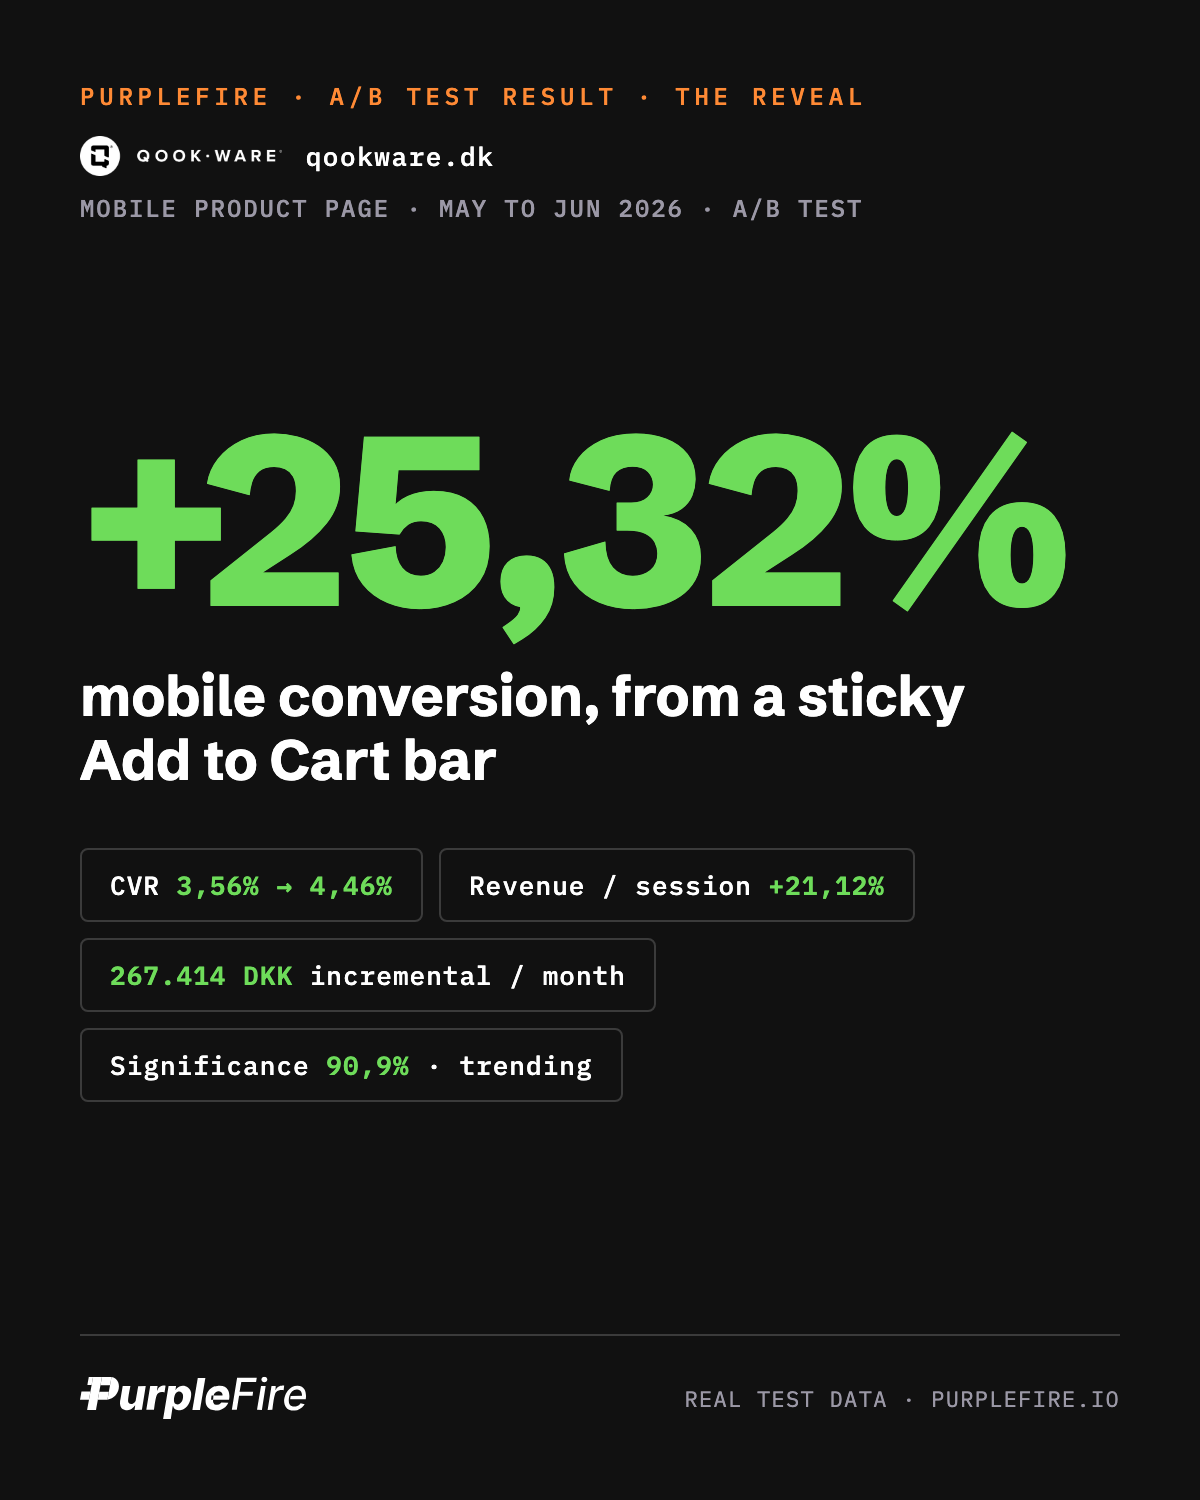
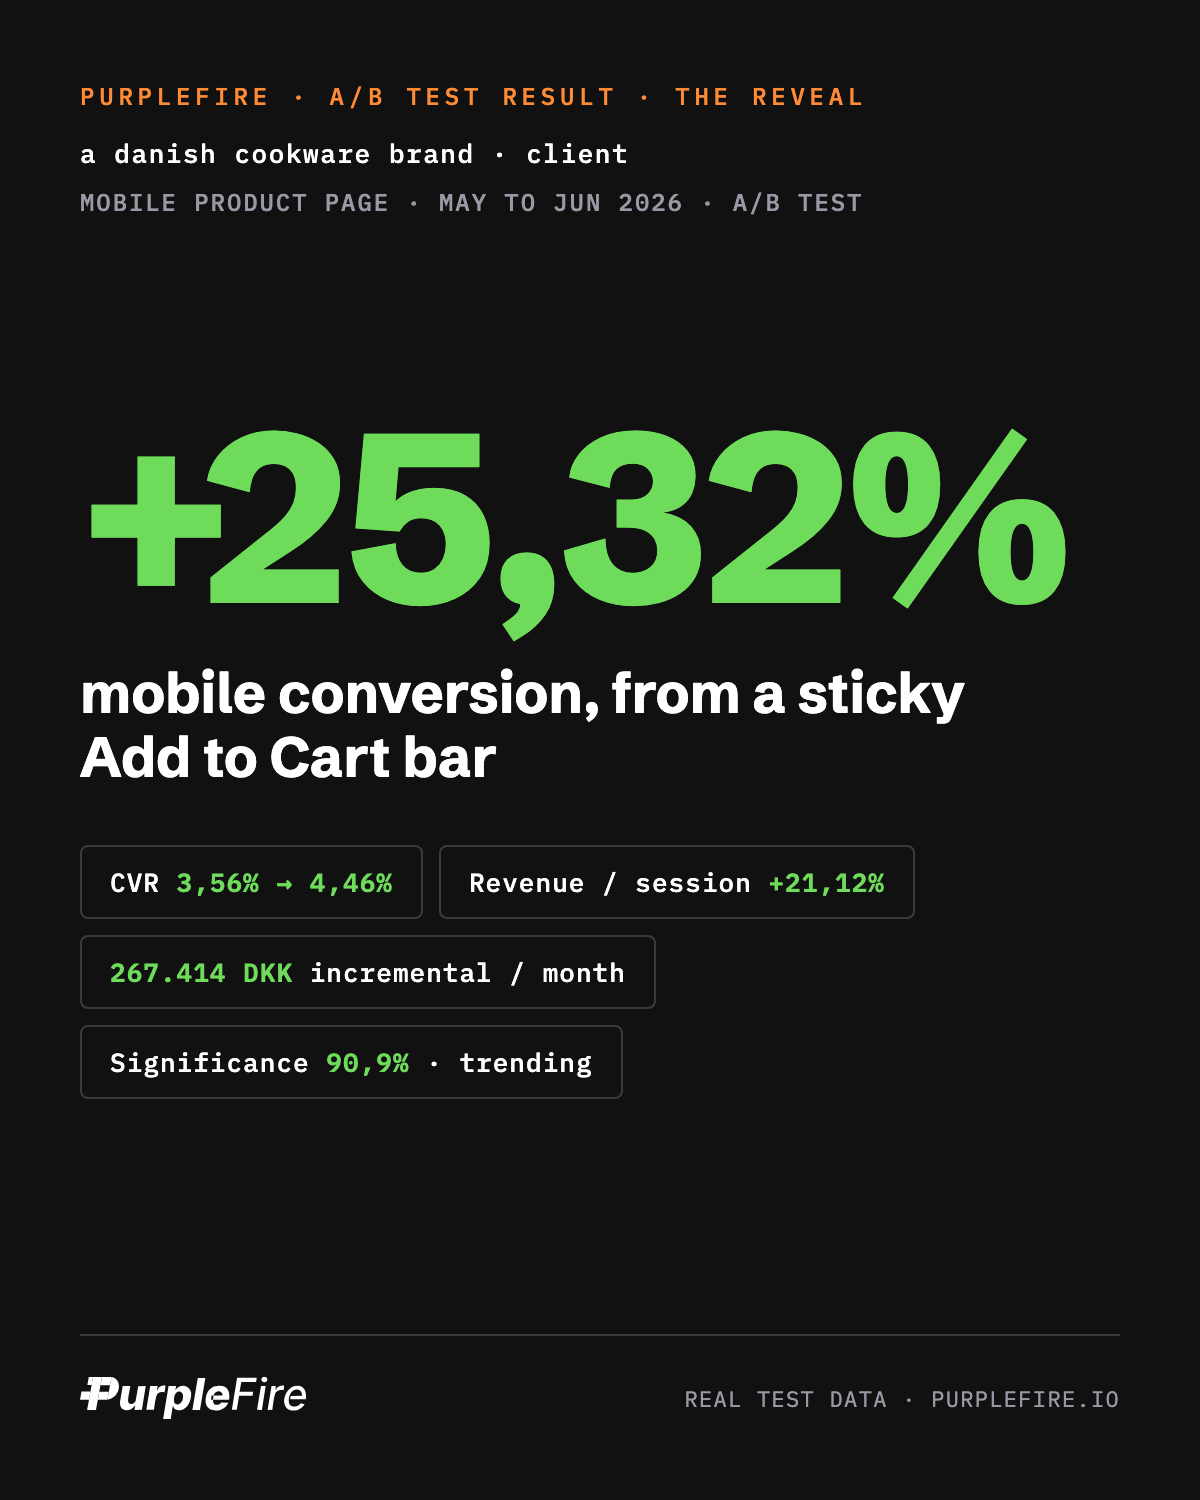
PurpleFire: anonymize current clients in all images and copy; replace excluded vault test in week 6

diff --git a/purplefire-linkedin-plan/index.html b/purplefire-linkedin-plan/index.html
@@ -403,7 +403,7 @@
     </h2>
     <ol>
       <li><strong>Client naming.</strong> Posts name PH Import and Qookware. Get a one line OK from each founder. If either declines, swap to "a Danish cleaning products brand" / "a Danish cookware brand". The numbers stay identical.</li>
-      <li><strong>Numbers discipline.</strong> Only PH Import T05 (+19.13% CVR) is at 99.7% statistical significance. Everything else is 78 to 91% ("trending"). The copy states measured lifts from test windows without claiming statistical proof. Do not round the language up when posting or replying to comments.</li>
+      <li><strong>Numbers discipline.</strong> Only one test (T05 on the cleaning brand, +19.13% CVR) is at 99.7% statistical significance. Everything else is 78 to 91% ("trending"). The copy states measured lifts from test windows without claiming statistical proof. Do not round the language up when posting or replying to comments.</li>
     </ol>
   </div>
 
@@ -411,7 +411,7 @@
   <p class="section-sub">Tick items off as they land. Progress saves in your browser.</p>
   <div class="prep" id="prep">
     <label class="prep-row"><input type="checkbox" class="post-check" data-key="prep1"><span class="date">Jul 15</span><span>Approve all post copy, make the two decisions above</span><span class="who daniel">Daniel</span></label>
-    <label class="prep-row"><input type="checkbox" class="post-check" data-key="prep3"><span class="date">Jul 16</span><span>Ask PH Import + Qookware founders for naming OK and referral intros</span><span class="who daniel">Daniel</span></label>
+    <label class="prep-row"><input type="checkbox" class="post-check" data-key="prep3"><span class="date">Jul 16</span><span>Ask both client founders for referral intros (posts stay anonymous)</span><span class="who daniel">Daniel</span></label>
     <label class="prep-row"><input type="checkbox" class="post-check" data-key="prep4"><span class="date">Jul 17</span><span>Build "Vault Top 20" lead magnet PDF (from the vault index, real client names)</span><span class="who bhaskar">Bhaskar</span></label>
     <label class="prep-row"><input type="checkbox" class="post-check" data-key="prep5"><span class="date">Jul 17</span><span>Produce 5 result card images from deck crops (dark card, big green number, before/after phones)</span><span class="who bhaskar">Bhaskar</span></label>
     <label class="prep-row"><input type="checkbox" class="post-check" data-key="prep7"><span class="date">Jul 19</span><span>Load everything into the scheduler or hand Daniel a paste ready folder</span><span class="who bhaskar">Bhaskar</span></label>
@@ -453,7 +453,7 @@
           <div class="li-author"><div class="li-avatar">DC</div><div><div class="nm">Daniel Chabert</div><div class="rl">Founder, PurpleFire</div></div></div>
           <pre class="post-copy">The highest ROI pixels on a product page sit directly under the Add to Cart button.
 
-We proved it in May on PH Import, a Danish cleaning products store.
+We proved it in May on one of our clients: a Danish store selling cleaning products.
 
 Their PDP had a "recommended products" block above the buy button. Data showed it earned 1% of clicks. The Add to Cart button next to it: 7%.
 
@@ -599,7 +599,7 @@ Where does your drop off happen? That's where your guarantee belongs.</pre>
           <div class="li-author"><div class="li-avatar">DC</div><div><div class="nm">Daniel Chabert</div><div class="rl">Founder, PurpleFire</div></div></div>
           <pre class="post-copy">87% of this store's traffic is mobile. Its product page was designed on a 27 inch monitor.
 
-Qookware sells premium cookware in Denmark. Great products, strong reviews, 4.8 stars.
+This client sells premium cookware in Denmark. Great products, strong reviews, 4.8 stars.
 
 But mobile converted at 4.9% while desktop did 7.2%. And the session recordings showed why: average mobile dwell time on the PDP was 74 seconds, and shoppers scrolled past the Add to Cart button early, then never scrolled back.
 
@@ -816,7 +816,7 @@ Comment VAULT and I'll DM it to you. (Connections only, so we can actually messa
           <div class="li-author"><div class="li-avatar">DC</div><div><div class="nm">Daniel Chabert</div><div class="rl">Founder, PurpleFire</div></div></div>
           <pre class="post-copy">We changed the ORDER of five buttons. It was worth 623,413 DKK per month.
 
-PH Import sells cleaning products Danes buy in bulk. Their product pages offered quantity bundles: 1, 2, 3, 6, or 12 units, laid out in a two row grid, ascending, cheapest first.
+Our client sells cleaning products Danes buy in bulk. Their product pages offered quantity bundles: 1, 2, 3, 6, or 12 units, laid out in a two row grid, ascending, cheapest first.
 
 Two problems with that:
 
@@ -854,7 +854,7 @@ What's the first price a visitor sees on your bestseller?</pre>
           <div class="li-author"><div class="li-avatar">DC</div><div><div class="nm">Daniel Chabert</div><div class="rl">Founder, PurpleFire</div></div></div>
           <pre class="post-copy">The best test we ran this quarter added nothing. It removed one button.
 
-Qookware's product page had an "Add to Wish List" button sitting directly below the price, above the Add to Cart. Prime real estate, primary visual hierarchy.
+The cookware store's product page had an "Add to Wish List" button sitting directly below the price, above the Add to Cart. Prime real estate, primary visual hierarchy.
 
 Think about what that placement says: before you decide to buy, here's an easier, lower commitment way out.
 
@@ -1024,7 +1024,7 @@ Reveal tomorrow with the full numbers.</pre>
 
 That's the test result most people don't believe until they see the mechanism.
 
-PH Import had 4,000+ reviews on their cleaning products. Every single one displayed as text. But shoppers buying cleaning products want to SEE the result: the limescale gone, the mold removed, the sofa saved.
+The store (a cleaning products client of ours) had 4,000+ reviews. Every single one displayed as text. But shoppers buying cleaning products want to SEE the result: the limescale gone, the mold removed, the sofa saved.
 
 The test: replace the text review carousel with an image first version. Customer photo leads, then stars, then the review text.
 
@@ -1096,12 +1096,12 @@ Look at your bestseller right now: what does a visitor get if they change nothin
           <div class="li-author"><div class="li-avatar">DC</div><div><div class="nm">Daniel Chabert</div><div class="rl">Founder, PurpleFire</div></div></div>
           <pre class="post-copy">Their homepage opened with a giant photo of the founder pointing at you. Charming. Also expensive.
 
-PH Import's original mobile homepage: hero image, then "Most popular" products. No headline. No value proposition. No reason to stay unless you already knew the brand.
+The client's original mobile homepage: hero image, then "Most popular" products. No headline. No value proposition. No reason to stay unless you already knew the brand.
 
 New visitors got charisma when they needed clarity.
 
 The test: keep the founder, add the missing 3 seconds of information above the fold:
-• Headline: what this store solves ("Professionel rengøring uden besvær")
+• Headline: what this store solves, in one plain sentence
 • One line of proof: Denmark's best selling cleaning products, direct from the importer
 • Two CTAs: shop bestsellers, see bundles
 • 4,094 reviews + 100,000 customers, right under the buttons
@@ -1602,7 +1602,7 @@ Enjoy your Sunday. The webshops can wait until Monday.</pre>
   </div>
 
   <div class="week" data-week="6">
-    <div class="week-head"><span class="wk">Week 6</span><h3>The redesign that lost</h3><span class="dates">Aug 24 to 30</span></div>
+    <div class="week-head"><span class="wk">Week 6</span><h3>The catalog cut</h3><span class="dates">Aug 24 to 30</span></div>
 
     <article class="post" data-type="results">
       <div class="post-head">
@@ -1621,30 +1621,31 @@ Enjoy your Sunday. The webshops can wait until Monday.</pre>
       <div class="post-head">
         <input type="checkbox" class="post-check" data-key="pg6" onclick="event.stopPropagation()">
         <div class="post-when"><div class="d">Tue</div><div class="dt">Aug 25</div></div>
-        <div class="post-title"><div class="id">Post G6 · static image · reaction vote</div><h4>Vote: the redesign or the old page?</h4></div>
+        <div class="post-title"><div class="id">Post G6 · static image · reaction vote</div><h4>Vote: big catalog or small catalog?</h4></div>
         <span class="badge guess">Guess</span>
         <svg class="chev" viewBox="0 0 24 24" fill="none" stroke="currentColor" stroke-width="2.4" stroke-linecap="round"><path d="m6 9 6 6 6-6"/></svg>
       </div>
       <div class="post-body">
-        <dl class="brief"><dt>Source</dt><dd>Vault test, Her Fantasy Box: their new PDP template vs the old one it replaced. The counterintuitive one.</dd><dt>Visual</dt><dd>Two PDP layouts labeled A (old) and B (redesign). Do not reveal which is old.</dd><dt>Reveal</dt><dd>Post 23 on Thursday.</dd></dl>
+        <dl class="brief"><dt>Source</dt><dd>Vault test, The Secret Stories: separate color listings vs merged products with a color picker.</dd><dt>Visual</dt><dd>Two collection layouts labeled A (separate listings) and B (merged products). Do not show the result.</dd><dt>Reveal</dt><dd>Post 23 on Thursday.</dd></dl>
         <div class="copy-label"><span>Post copy</span><button class="copy-btn">Copy</button></div>
         <div class="li-preview">
           <div class="li-author"><div class="li-avatar">DC</div><div><div class="nm">Daniel Chabert</div><div class="rl">Founder, PurpleFire</div></div></div>
-          <pre class="post-copy">Her Fantasy Box spent months redesigning their product page. Cleaner, more modern, more on trend.
+          <pre class="post-copy">We deleted half of a store's catalog. On purpose.
 
-Then we did something uncomfortable: we A/B tested the shiny new template against the old one they'd just replaced.
+The Secret Stories sold the same kits in several colors, and every color was listed as its own product. The catalog looked big. Choosing felt like work.
 
-Version A: the old page.
-Version B: the redesign.
+The test: merge kits that differ only by color into ONE product with a color picker. Overnight, the catalog looked half the size.
 
-One of them converts meaningfully better. Which one?
+A: every color its own product (the big catalog)
+B: one product per kit, colors inside (the small catalog)
 
-Like = A, the old page wins
-Love = B, the redesign wins
+Vote:
+Like = A wins
+Love = B wins
 
-Before you vote: "newer" and "better looking" are not the same variable as "converts better." That's all I'll say.
+And in the comments: does a bigger looking catalog sell more, or less?
 
-Comment your reasoning. Reveal Thursday, and this one has a lesson that costs some brands hundreds of thousands.</pre>
+Answer Thursday, with numbers that settle it.</pre>
         </div>
       </div>
     </article>
@@ -1679,26 +1680,26 @@ The takeaway: your homepage's job on mobile isn't to impress. It's to route. Cou
       <div class="post-head">
         <input type="checkbox" class="post-check" data-key="p23" onclick="event.stopPropagation()">
         <div class="post-when"><div class="d">Thu</div><div class="dt">Aug 27</div></div>
-        <div class="post-title"><div class="id">Post 23 · reveal of G6</div><h4>The old page won: +7.79% CVR</h4></div>
+        <div class="post-title"><div class="id">Post 23 · reveal of G6</div><h4>The small catalog won: +31,93% CVR</h4></div>
         <span class="badge results">Results</span>
         <svg class="chev" viewBox="0 0 24 24" fill="none" stroke="currentColor" stroke-width="2.4" stroke-linecap="round"><path d="m6 9 6 6 6-6"/></svg>
       </div>
       <div class="post-body">
-        <dl class="brief"><dt>Vote tie-in</dt><dd>Open with the vote split (fill real numbers).</dd><dt>Visual</dt><dd>The A/B pair with the winner marked, plus "+7.79% CVR" card.</dd></dl>
+        <dl class="brief"><dt>Vote tie-in</dt><dd>Open with the vote split (fill real numbers).</dd><dt>Visual</dt><dd>The A/B pair with the winner marked, plus "+31,93% CVR" card.</dd></dl>
         <div class="copy-label"><span>Post copy</span><button class="copy-btn">Copy</button></div>
         <div class="li-preview">
           <div class="li-author"><div class="li-avatar">DC</div><div><div class="nm">Daniel Chabert</div><div class="rl">Founder, PurpleFire</div></div></div>
-          <pre class="post-copy">The old page won. Conversion +7.79%, add to cart +6.07%.
+          <pre class="post-copy">The half sized catalog won. Conversion +31,93%. Revenue per session +43,32%.
 
-[Tuesday's vote: X% backed the redesign. Fill in before posting.]
+[Tuesday's vote: X% picked B. Fill in before posting.]
 
-We've now retested this on multiple products for that brand. Same answer every time: the old template out converts the new one. The redesign, months of work, made the store measurably worse.
+The Secret Stories merged kits that differed only by color into single products with a color picker. Fewer listings, exactly the same real choice.
 
-This is the most expensive pattern in ecommerce and we see it constantly in our vault: the full redesign nobody tested. New template, new brand look, launched over a weekend, and conversion quietly drops 5 to 15% with everyone too invested to ask whether the old version was better.
+Why it works: a catalog of near duplicates forces shoppers to compare products that are 95% identical, and comparison is where buying momentum goes to die. One product with a color swatch turns twelve decisions into two: which kit, then which color.
 
-The redesign wasn't ugly. It was untested. Those are different failures.
+The pattern across our vault: choice architecture beats choice volume. Shoppers don't want more options. They want to be done choosing.
 
-The rule we run all our programs by: redesigns are hypotheses, not upgrades. Test the new against the old before you delete the old. And if you already redesigned and revenue feels softer since, that's not bad luck. That's a test you can still run.</pre>
+Count your own catalog. How many of your products are really the same product wearing a different color?</pre>
         </div>
       </div>
     </article>
@@ -1797,7 +1798,7 @@ Enjoy your Sunday. The webshops can wait until Monday.</pre>
 
 That's the silent failure mode of most product pages: the persuasion lives below the fold, and most shoppers never get there.
 
-Qookware's PDP had strong USPs: 5 practical sizes, non slip bottoms, freezer and dishwasher safe. All listed as tags below the Add to Cart button, below the fold for most mobile users.
+Our cookware client's PDP had strong USPs: 5 practical sizes, non slip bottoms, freezer and dishwasher safe. All listed as tags below the Add to Cart button, below the fold for most mobile users.
 
 The test: move those USPs directly under the price, above the buy button, as a tight checklist.
 
